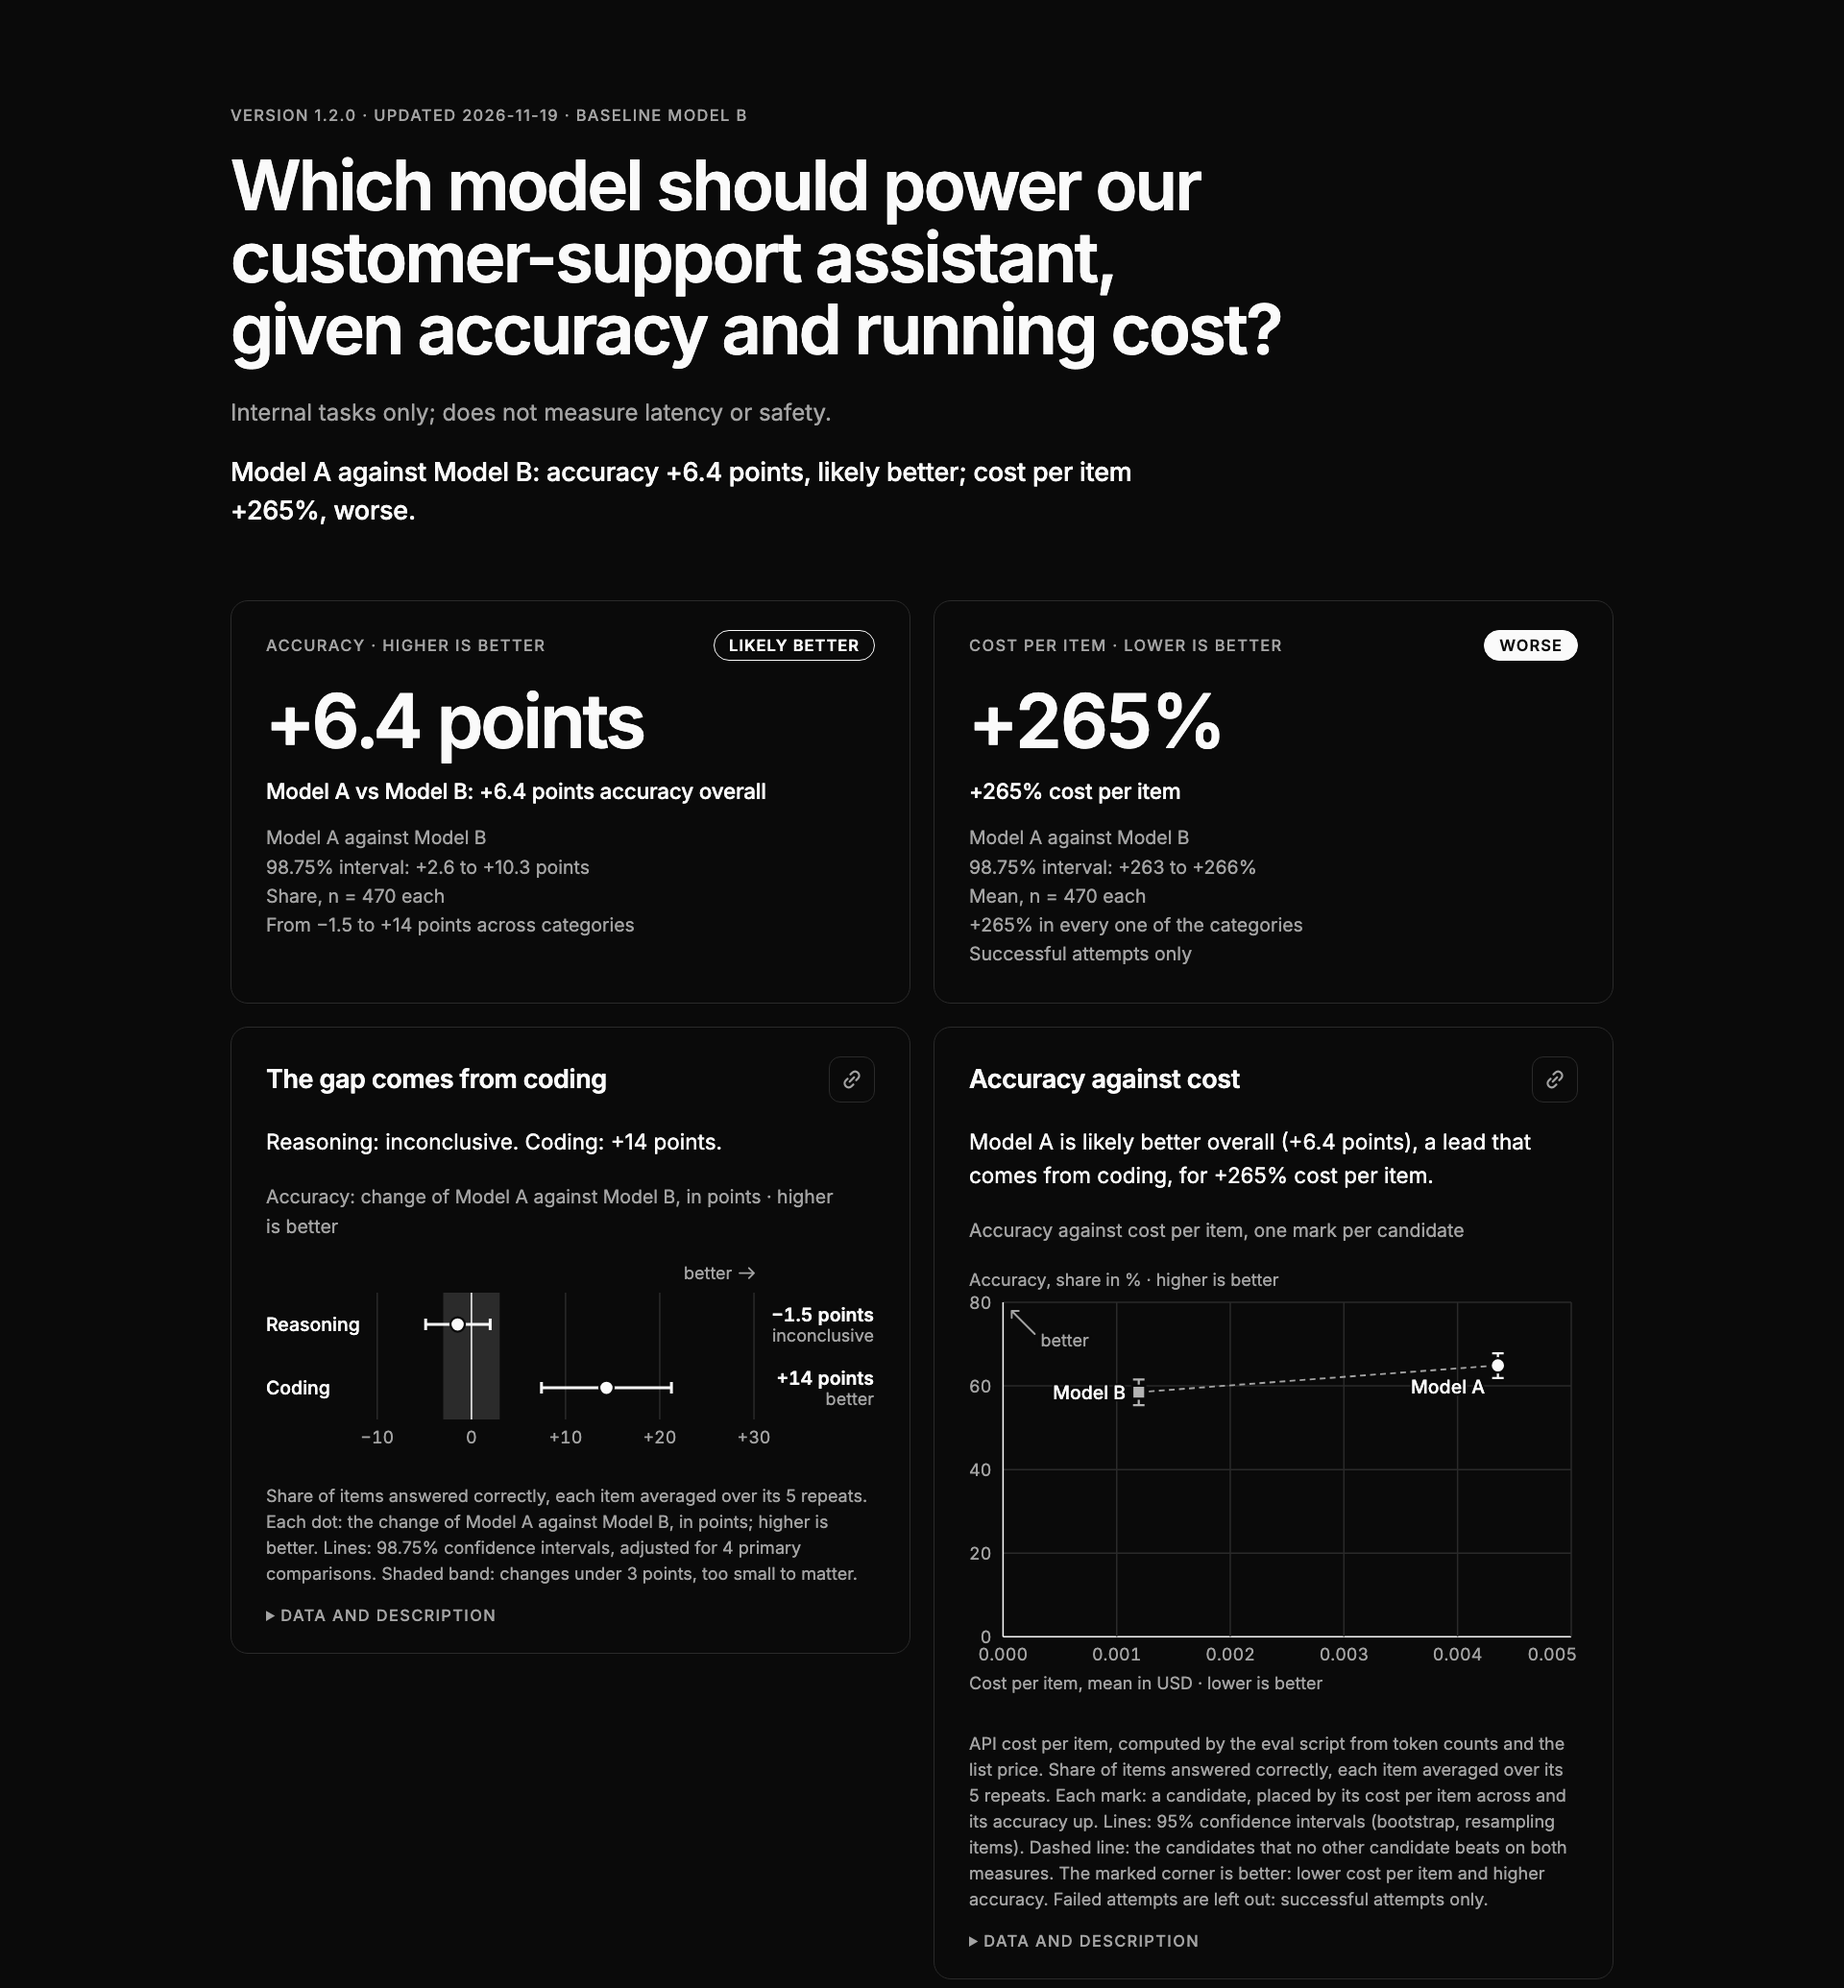
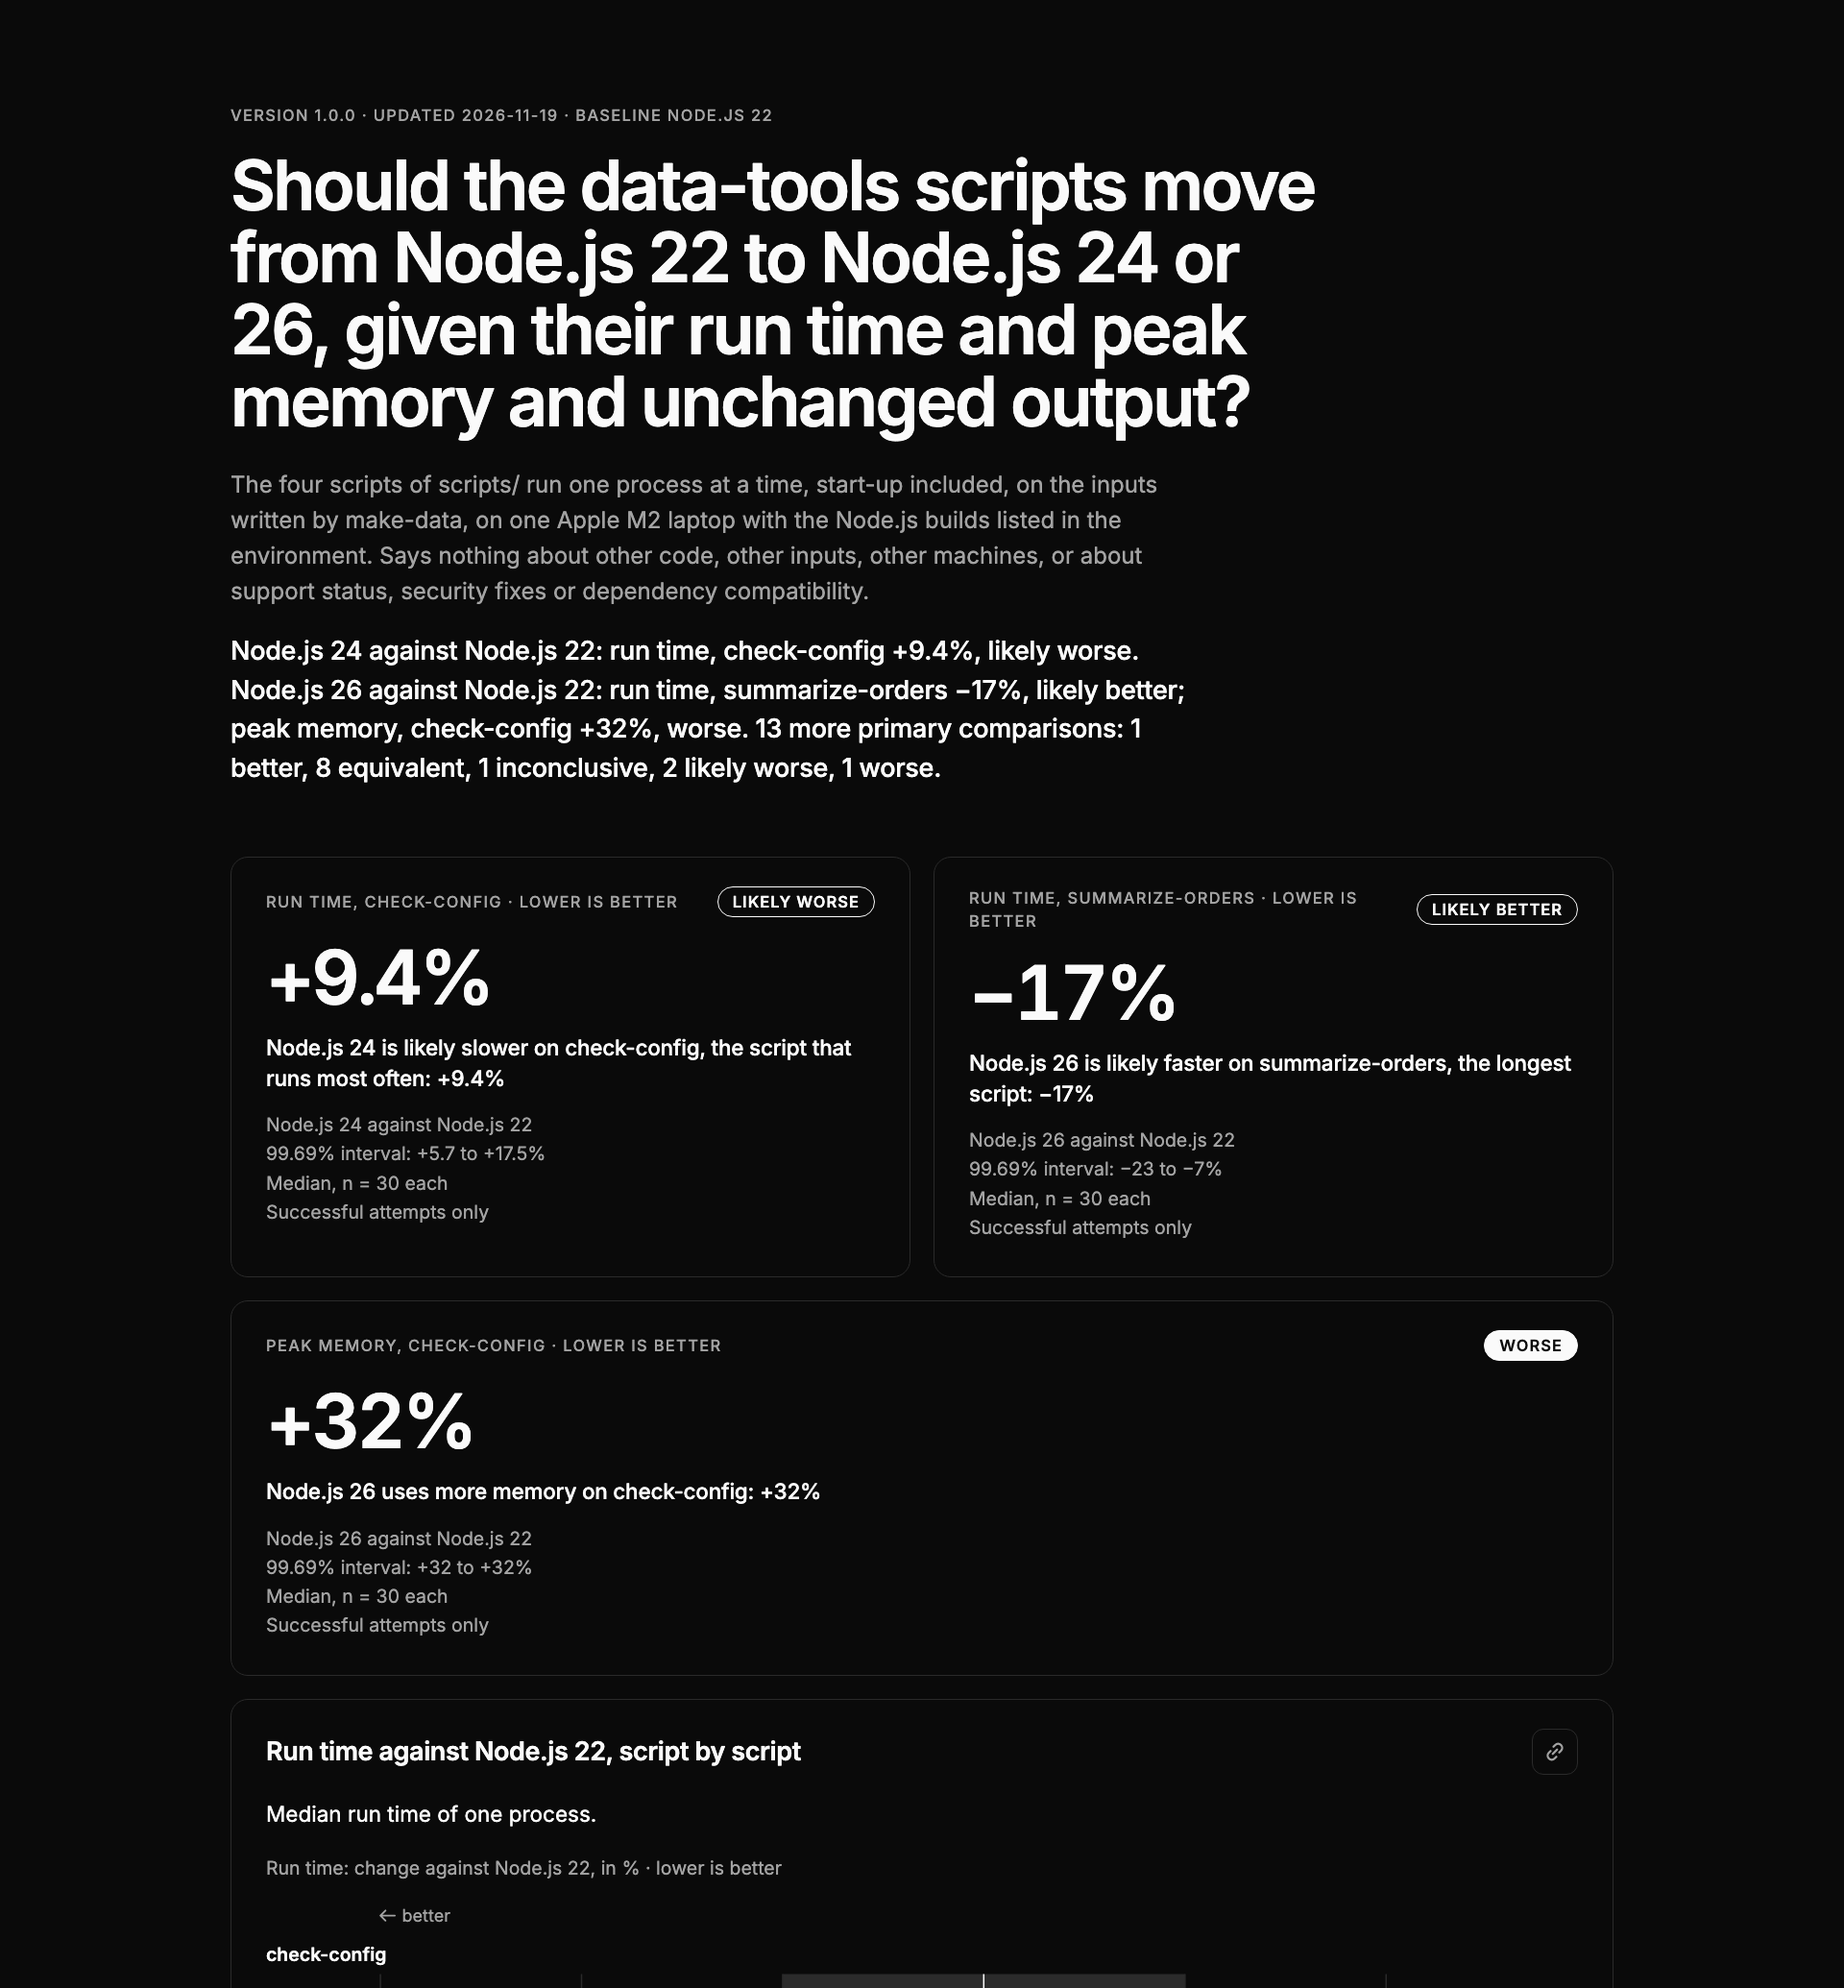
README card and run-time chart; refresh site
The README now uses new card and chart assets in assets/readme instead of the example output paths, so it no longer depends on generated files. The site writer and its test are updated to match, and the site screenshots are regenerated.

diff --git a/src/render/site/write-site.ts b/src/render/site/write-site.ts
@@ -4,7 +4,7 @@ import type { RawFile } from "../../compute/raw-data.js";
 import type { Benchmark } from "../../schema/benchmark.js";
 import { THEME } from "../../themes/astrolabe.js";
 import type { Comparison } from "../../schema/benchmark.js";
-import { cardAltText, cardContentOf, measuredOf, pairOf, renderCard } from "../card.js";
+import { cardAltText, cardContentOf, MAX_HEADLINES, measuredOf, pairOf, renderCard } from "../card.js";
 import { effectAndInterval, lookupOf, lowerFirstLetterOfWord, verdictLabel, type BuildContext } from "../describe.js";
 import { exportPlanOf, IMAGE_SIZES, renderImage } from "../exports.js";
 import { pngOf } from "../png.js";
@@ -69,24 +69,49 @@ function previewImageOf(benchmark: Benchmark, context: BuildContext, rawFiles: R
  * The answer in one sentence, from every primary comparison: the claims a reader came for, each with
  * the group it is measured on, its effect and its verdict.
  */
+const VERDICTS_IN_READING_ORDER = ["better", "likely better", "equivalent", "inconclusive", "likely worse", "worse"];
+
+/** The comparisons the answer names: those the page leads with when there are more than a card holds. */
+function namedClaimsOf(benchmark: Benchmark, claims: Comparison[]): Comparison[] {
+  if (claims.length <= MAX_HEADLINES) return claims;
+
+  const headlined = (benchmark.blocks ?? []).flatMap((block) =>
+    block.type === "headline" && "comparison" in block ? claims.filter((claim) => claim.id === block.comparison) : [],
+  );
+
+  return (headlined.length > 0 ? [...new Set(headlined)] : claims).slice(0, MAX_HEADLINES);
+}
+
 export function answerOf(benchmark: Benchmark): string {
   const lookup = lookupOf(benchmark.results);
   const claims = (benchmark.results.comparisons ?? []).filter((comparison) => comparison.role === "primary");
+  const named = namedClaimsOf(benchmark, claims);
+  const others = claims.filter((claim) => !named.includes(claim));
   const byPair = new Map<string, Comparison[]>();
 
-  for (const comparison of claims) byPair.set(pairOf(lookup, comparison), [...(byPair.get(pairOf(lookup, comparison)) ?? []), comparison]);
+  for (const comparison of named) byPair.set(pairOf(lookup, comparison), [...(byPair.get(pairOf(lookup, comparison)) ?? []), comparison]);
 
-  return [...byPair.entries()]
-    .map(([pair, comparisons]) => {
-      const phrases = comparisons.map((comparison) => {
-        const metric = lookup.metricById.get(comparison.metric)!;
+  const sentences = [...byPair.entries()].map(([pair, comparisons]) => {
+    const phrases = comparisons.map((comparison) => {
+      const metric = lookup.metricById.get(comparison.metric)!;
 
-        return `${lowerFirstLetterOfWord(measuredOf(lookup, comparison))} ${effectAndInterval(metric, comparison).effect}, ${verdictLabel(comparison)}`;
-      });
+      return `${lowerFirstLetterOfWord(measuredOf(lookup, comparison))} ${effectAndInterval(metric, comparison).effect}, ${verdictLabel(comparison)}`;
+    });
 
-      return `${pair}: ${phrases.join("; ")}.`;
-    })
-    .join(" ");
+    return `${pair}: ${phrases.join("; ")}.`;
+  });
+
+  if (others.length > 0) {
+    const counts = VERDICTS_IN_READING_ORDER.flatMap((verdict) => {
+      const count = others.filter((claim) => verdictLabel(claim) === verdict).length;
+
+      return count > 0 ? [`${count} ${verdict}`] : [];
+    });
+
+    sentences.push(`${others.length} more primary comparison${others.length === 1 ? "" : "s"}: ${counts.join(", ")}.`);
+  }
+
+  return sentences.join(" ");
 }
 
 /**

diff --git a/tests/site.test.ts b/tests/site.test.ts
@@ -157,12 +157,21 @@ describe("the site", () => {
     expect(support.css).toContain(".segmented input:focus-visible + span { outline: 2px solid var(--ink)");
   });
 
-  it("answers the question at the top with every primary comparison, named by the group it is measured on", () => {
-    expect(support.html).toContain(
-      '<p class="answer">Model A against Model B: accuracy +6.4 points, likely better; accuracy, Reasoning −1.5 points, inconclusive; accuracy, Coding +14 points, better; cost per item +265%, worse.</p>',
-    );
-    expect(support.html).toContain(
-      '<meta name="description" content="Model A against Model B: accuracy +6.4 points, likely better; accuracy, Reasoning −1.5 points, inconclusive; accuracy, Coding +14 points, better; cost per item +265%, worse.">',
+  it("answers the question at the top with the comparisons the page leads with, and counts the others by verdict", () => {
+    const answer =
+      "Model A against Model B: accuracy +6.4 points, likely better; cost per item +265%, worse. 2 more primary comparisons: 1 better, 1 inconclusive.";
+
+    expect(support.html).toContain(`<p class="answer">${answer}</p>`);
+    expect(support.html).toContain(`<meta name="description" content="${answer}">`);
+  });
+
+  it("names the first primary comparisons when no headline leads the page", () => {
+    const benchmark = loadBenchmark("support-assistant-eval");
+
+    benchmark.blocks = benchmark.blocks?.filter((block) => block.type !== "headline");
+
+    expect(answerOf(benchmark)).toBe(
+      "Model A against Model B: accuracy +6.4 points, likely better; accuracy, Reasoning −1.5 points, inconclusive; accuracy, Coding +14 points, better. 1 more primary comparison: 1 worse.",
     );
   });
 

diff --git a/README.md b/README.md
@@ -19,24 +19,22 @@ A skill teaches the agent the method, and the `astrolabe` command computes every
       <picture>
         <source media="(prefers-color-scheme: light)" srcset="assets/readme/site-light.png">
         <source media="(prefers-color-scheme: dark)" srcset="assets/readme/site-dark.png">
-        <img alt="The page of a benchmark: headline results, a chart by category and accuracy against cost" src="assets/readme/site-light.png">
+        <img alt="The page of a benchmark of Node.js 22, 24 and 26 on four scripts: the question, the answer and three headline results" src="assets/readme/site-light.png">
       </picture>
       <br><b>Site</b> · <sub>a page to publish, with every chart, table and filter</sub>
     </td>
     <td valign="top" width="40%">
-      <a href="examples/support-assistant-eval/dist/benchmark.md">
-        <picture>
-          <source media="(prefers-color-scheme: light)" srcset="examples/support-assistant-eval/dist/exports/readme-card-light.svg">
-          <source media="(prefers-color-scheme: dark)" srcset="examples/support-assistant-eval/dist/exports/readme-card-dark.svg">
-          <img alt="A README card: the headline results, linked to the full report" src="examples/support-assistant-eval/dist/exports/readme-card-light.png">
-        </picture>
-      </a>
+      <picture>
+        <source media="(prefers-color-scheme: light)" srcset="assets/readme/card-light.svg">
+        <source media="(prefers-color-scheme: dark)" srcset="assets/readme/card-dark.svg">
+        <img alt="A README card: three headline results with their verdicts and intervals" src="assets/readme/card-light.png">
+      </picture>
       <br><b>README</b> · <sub>a card linked to a full Markdown report</sub>
     </td>
   </tr>
   <tr>
     <td valign="top" width="40%">
-      <img alt="A chart image: accuracy against cost per item, one mark per model" src="examples/support-assistant-eval/dist/exports/social-light.png">
+      <img alt="A chart image: the run time of Node.js 24 and 26 against Node.js 22, script by script" src="assets/readme/chart-run-time.png">
       <br><b>Chart images</b> · <sub>PNG or SVG, for posts and slides</sub>
     </td>
   </tr>
